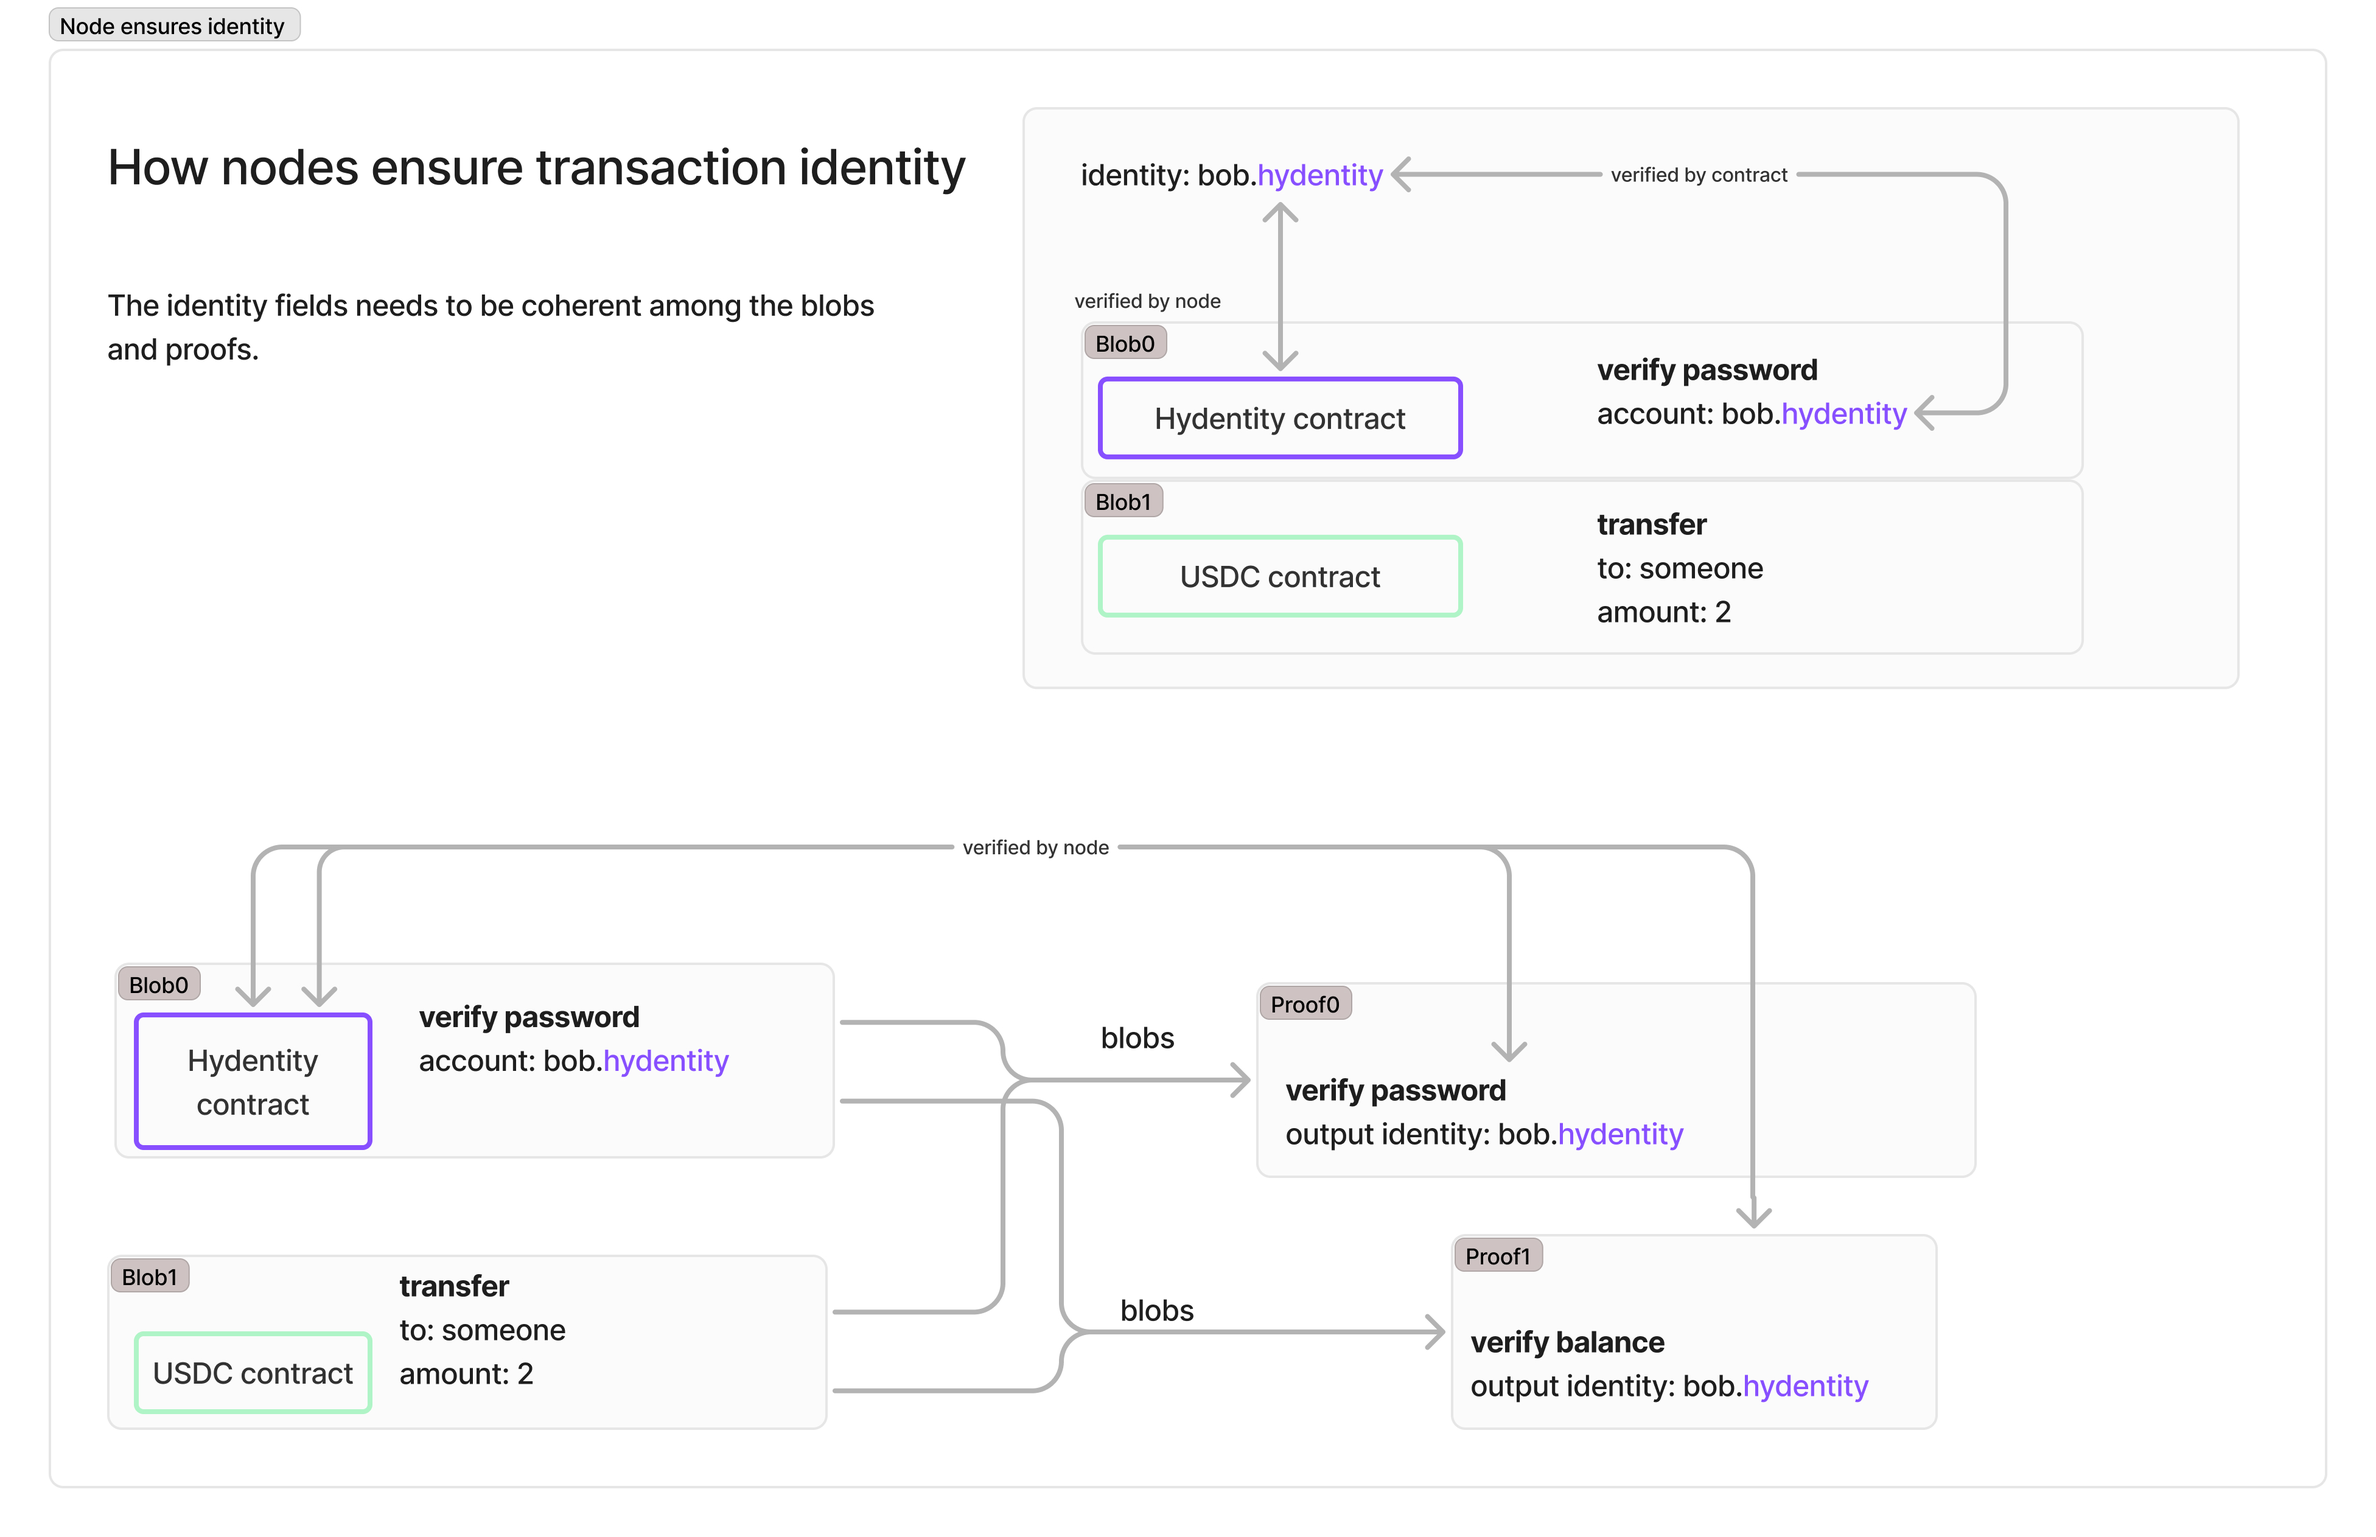
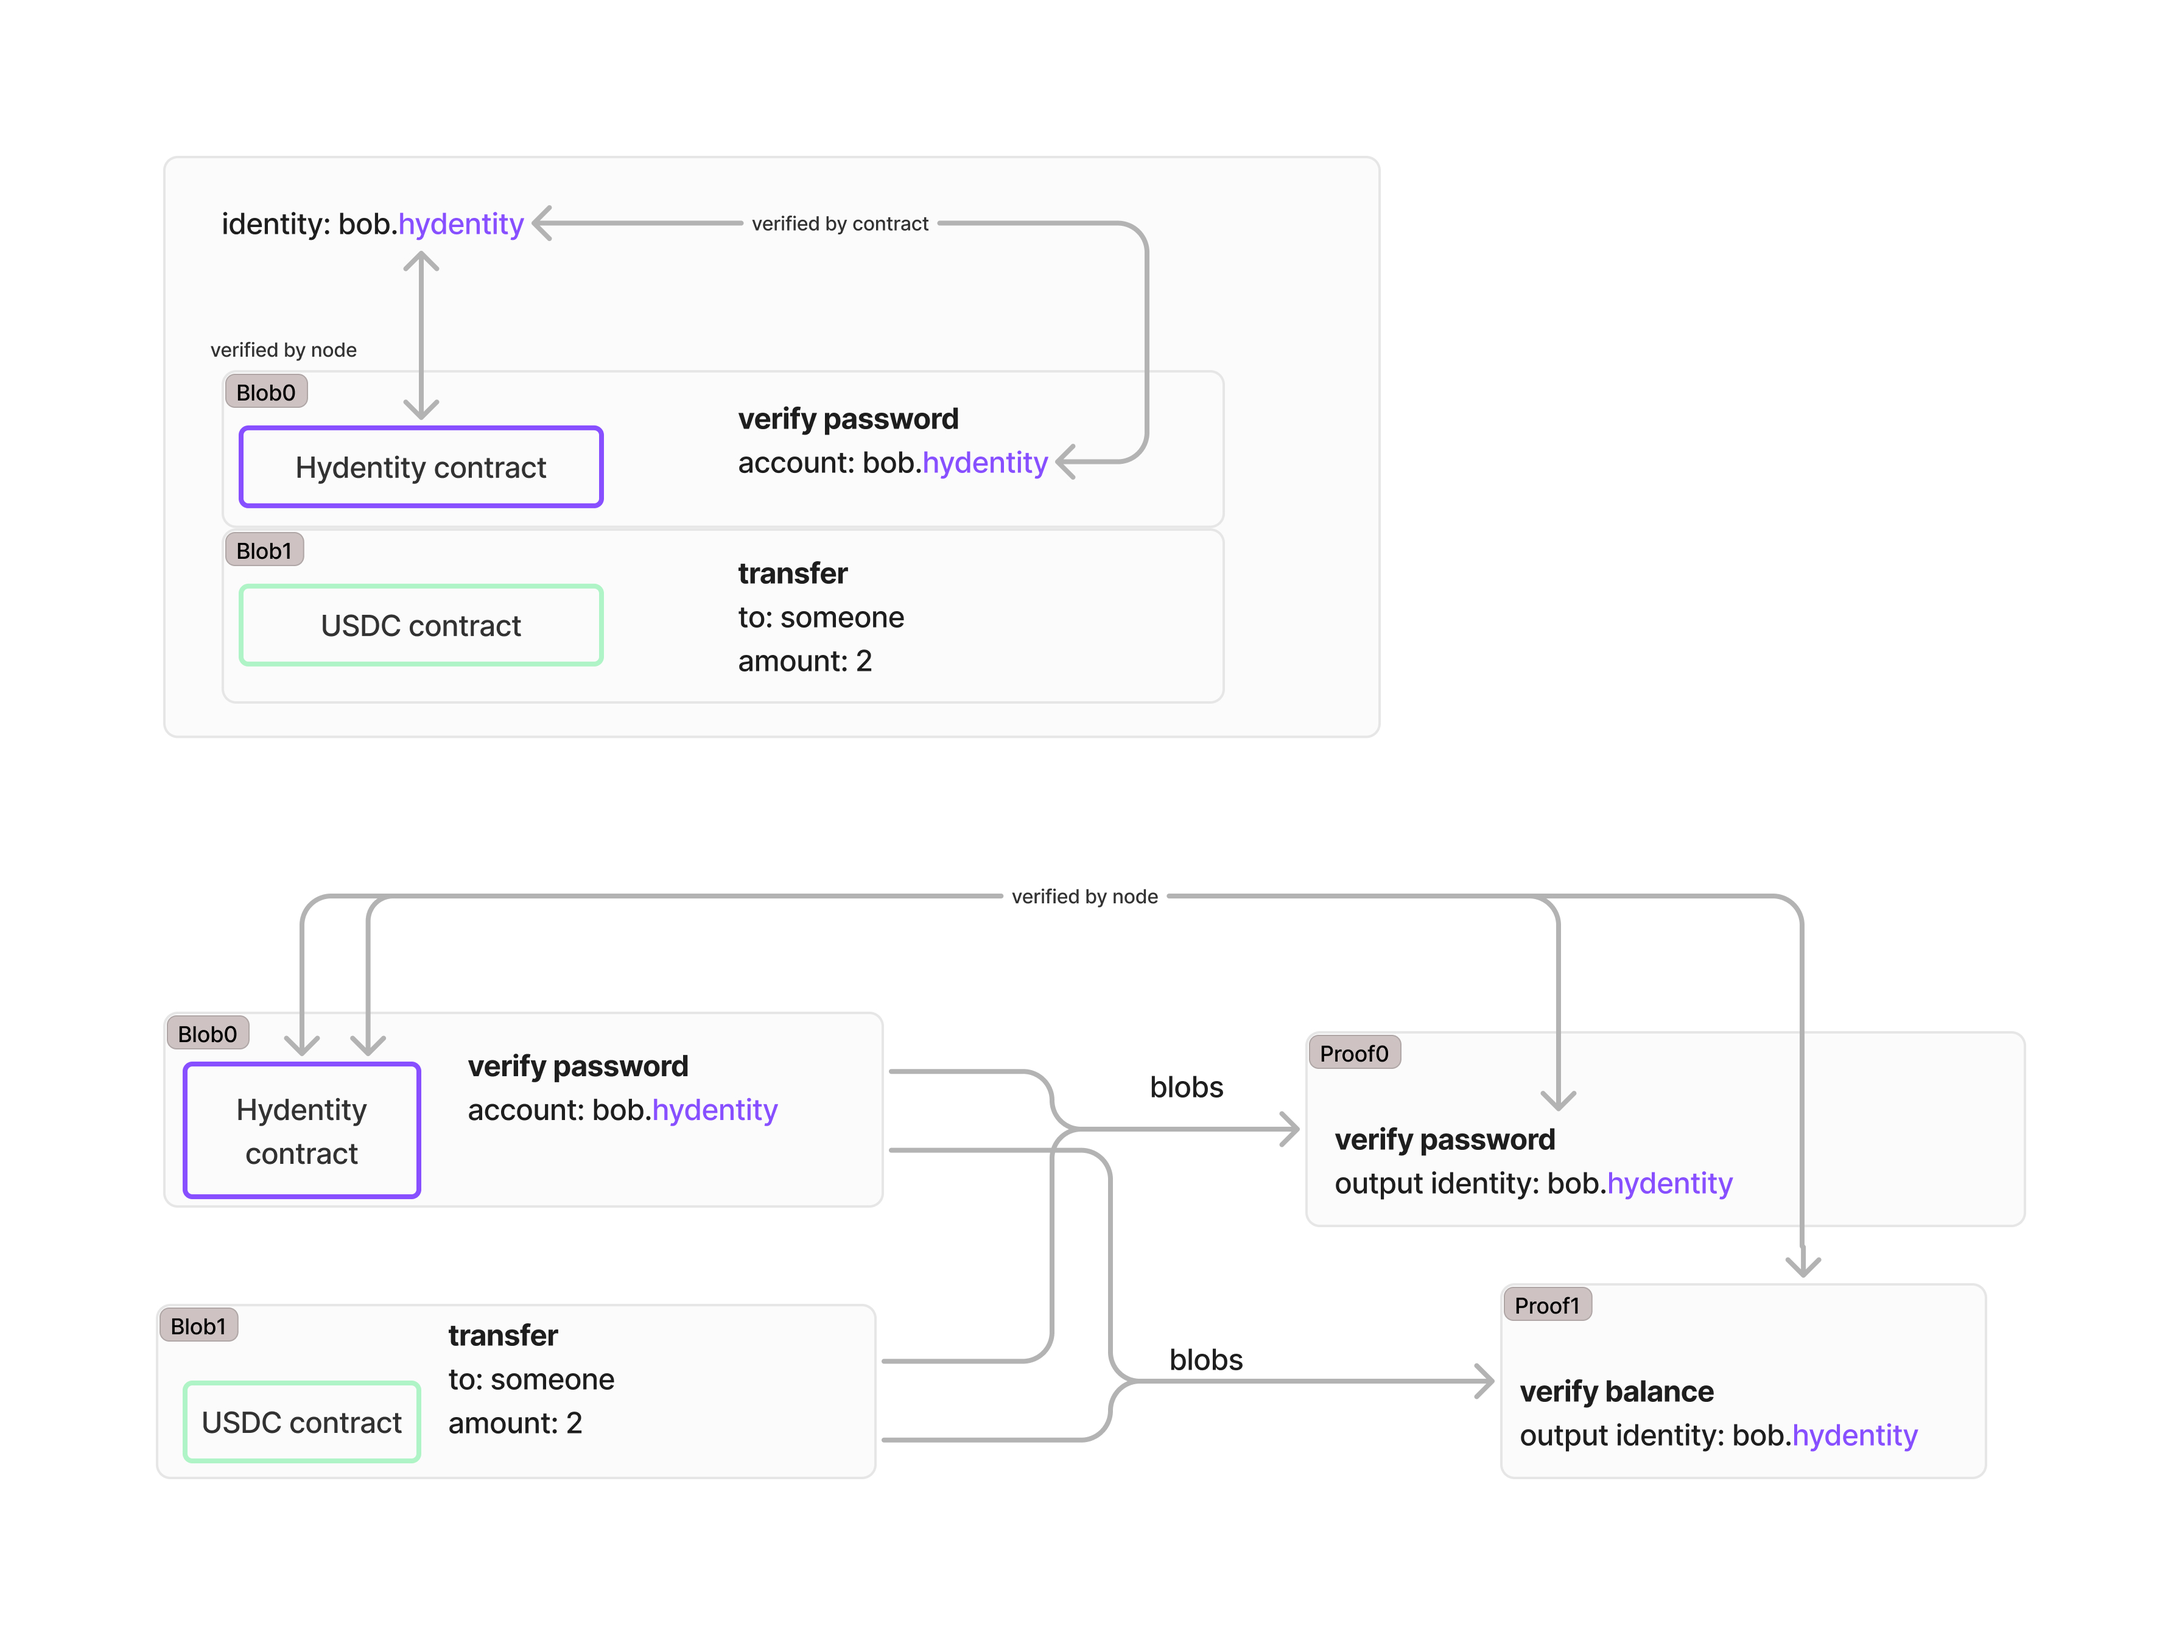
added bertrand's graphs and reviewed existing text to make it less dense

diff --git a/docs/concepts/identity.md b/docs/concepts/identity.md
@@ -1,34 +1,63 @@
 # Identity management
 
-Identity [in traditional blockchains](./hyle-vs-vintage-blockchains.md) is often tied to a single wallet address, which limits flexibility and privacy.
+Identity [in traditional blockchains](./hyle-vs-vintage-blockchains.md) is typically tied to a single wallet address. This approach limits flexibility and compromises privacy.
 
-Hylé introduces a **proof-based identity model**. Instead of relying on fixed addresses or centralized registries, your application can use cryptographic proofs of identity.
-
-This approach allows users to authenticate with any identity source: meet users where they are and don't worry about onboarding and clunky wallets!
-
-## Choosing an identity source
-
-On Hylé, any smart contract can be used as a proof of identity. This flexibility enables you to register your preferred identity source as a smart contract for account authentication.
-
-Here are some important aspects of identity contracts:
-
-- Identity contracts define how proofs of identity are verified and validated.
-- Applications decide which identities to accept. A contract can enforce specific identity types (e.g., Google accounts only) or support multiple sources simultaneously.
-- A transaction can seamlessly send Hylé tokens between any identity types, such as from a Metamask wallet to an email and password-based account: using proofs as identities on Hylé means there is perfect interoperability.
-- There are no Hylé-specific wallets. Users authenticate using any proof supported by their application.
-
-A safe Identity provider should sign the whole blob transaction to ensure that the blobs have been approved by the user. One way of doing it is to let the user sign the blobs they agree to execute. The identity contract will then check that all the transaction's blobs are signed.
-
-If you don't want to create a custom identity source for early development, Hylé provides [a native `hydentity` contract](https://github.com/Hyle-org/hyle/tree/main/crates/contracts/hydentity). This contract is not secure and must not be used in production.
+On Hylé, **any smart contract can be a proof of identity**. This enables you to register your preferred identity source as a smart contract for authentication.
 
 ## How Hylé processes identity proofs
 
-As explained in [our transactions concept page](./transaction.md), a `BlobTransaction` on Hylé can include multiple blobs. One of these blobs must be an identity claim.
+A blob transaction on Hylé includes multiple blobs. One of these blobs must contain an identity claim. (If this isn't clear, read more on [our transactions concept page](./transaction.md).)
 
-- Each blob transaction requires a single identity.
-- All provable blobs in a transaction must share the same identity.
-- Identity proofs must include a nonce to prevent replay attacks.
+- Each blob transaction has a single identity blob.
+- All provable blobs within a transaction share the same identity.
+- Identity proofs include a nonce to prevent replay attacks.
 - The proof verification process ensures the identity was correctly provided.
+
+![Each blob has a proof. Blob0 being a hydentity contract action for « verify password » on the account bob.hydentity is verified by the contract and by the node. Blob1 is an USDC transfer contract. Another graph under this one shows that each blob is proven and that all proofs are verified by the node; they all have bob.hydentity as their output identity. The identity fields are coherent between all blobs and proofs](../assets/img/how-nodes-ensure-identity.jpg)
+
+## Choosing an identity source
+
+When selecting an identity contract, remember:
+
+- Identity contracts define how identity proofs are verified.
+- Applications decide which identity they support. Some may enforce a specific identity type (e.g., Google accounts), while others allow multiple sources.
+- Transactions can transfer Hylé tokens between different identity types, such as from a Metamask wallet to an email/password-based account.
+- Users authenticate with any proof supported by their application. There are no "Hylé wallets".
+
+The identity provider should sign the entire blob transaction to ensure that all the included blobs have been approved by the user. One approach is to make the user sign the blobs they agree to execute. The identity contract then verifies that all blobs in the transaction are properly signed.
+
+If you don't want to create a custom identity source for early development, Hylé provides [a native `hydentity` contract](https://github.com/Hyle-org/hyle/tree/main/crates/contracts/hydentity). This contract is not secure and must not be used in production.
+
+## Identity verification methods
+
+Hylé supports multiple identity verification methods, each with unique characteristics. Here are some of the most common.
+
+### Private password
+
+A user authenticates using a private password known only to them.
+
+- Password: private input.
+- Proof: only those who know the password can generate a valid proof for these blobs.
+- The proof is valid only for the blobs in this blob transaction.
+
+![In this blob transaction, bob.hydentity's blob0 has verify password as its action. The proof for Blob1 has the password as private input and compares it with the stored hash. Only those who know the password can generate a valid proof of the identity blob. This proof is valid only for the blobs in this blob transaction.](../assets/img/identity-password.jpg)
+
+### Public signature
+
+A user signs a message with their private key to prove identity.
+
+- Signature: public input. No private input is required, since only the owner of the private key can generate a valid signature.
+- Proof: anyone can generate a proof based on the public signature.
+
+![In this graph, the blob transaction has 0xcafe.ecdsa as an identity. The ECDSA contract in blob0 has the action verify signature. The signature is `sign(hash([blob1])`. There is no private input required, anyone can generate a proof but only the owner of the private key can generate a valid signature.)](../assets/img/identity-public-signature.jpg)
+
+### Private OpenID verification
+
+This works just like it does with a private password, except it generally can't be done client-side.
+
+The OpenID provider knows your secret key, so it could be able to generate transactions on  your behalf.
+
+![A blob transaction where identity is bob@gmail.com.oidc. Blob0 is to verify openID with an OIDC contract; the proof for blob0 has the openID as private input and verify its validity. The other blob is an USDC contract to transfer money. ](../assets/img/identity-openid.jpg)
 
 ## Custom identity contracts
 

diff --git a/docs/reference/devnet.md b/docs/reference/devnet.md
@@ -64,7 +64,7 @@ docker run -v ./data:/hyle/data \
     ghcr.io/hyle-org/hyle:v0.7.2
 ```
 
-You can now [create your first smart contract](./example/first-token-contract.md).
+You can now [create your first smart contract](../quickstart/example/first-token-contract.md).
 
 !!! tip
 To reset your devnet, delete the ./data folder and restart from Step 1. Otherwise, you risk re-registering a contract that still exists.

diff --git a/docs/concepts/index.md b/docs/concepts/index.md
@@ -38,7 +38,7 @@ This section includes general documentation topics. You can also refer to [our G
 
     Any smart contract can be an identity on Hylé.
 
-    [:octicons-arrow-right-24: Read more](./proof-generation.md)
+    [:octicons-arrow-right-24: Read more](./identity.md)
 
 </div>
 
